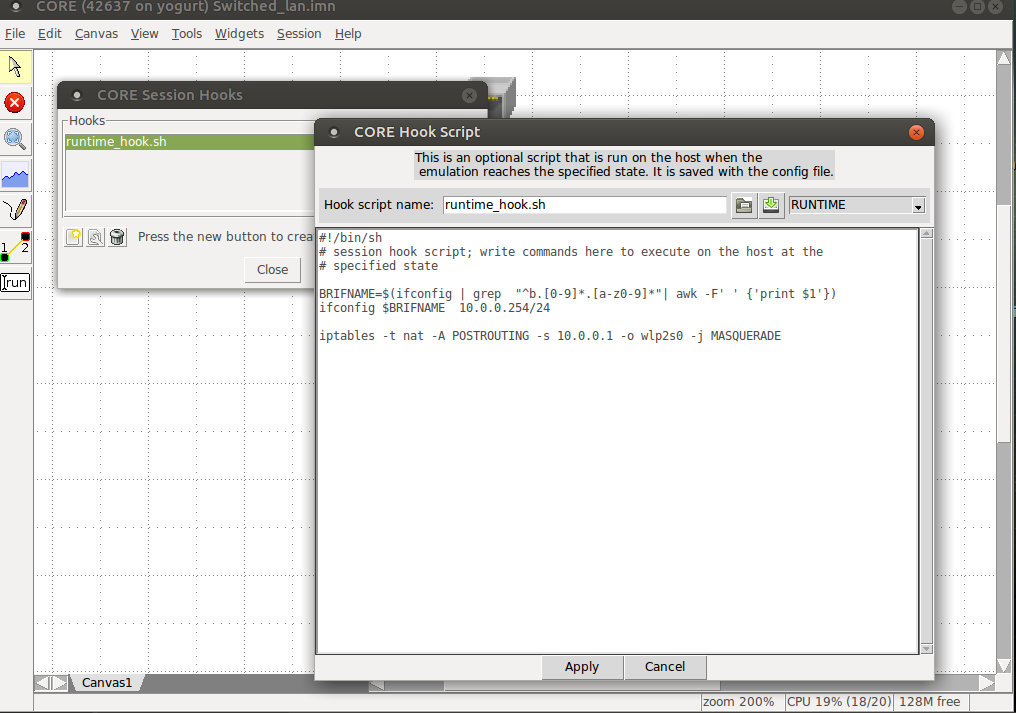
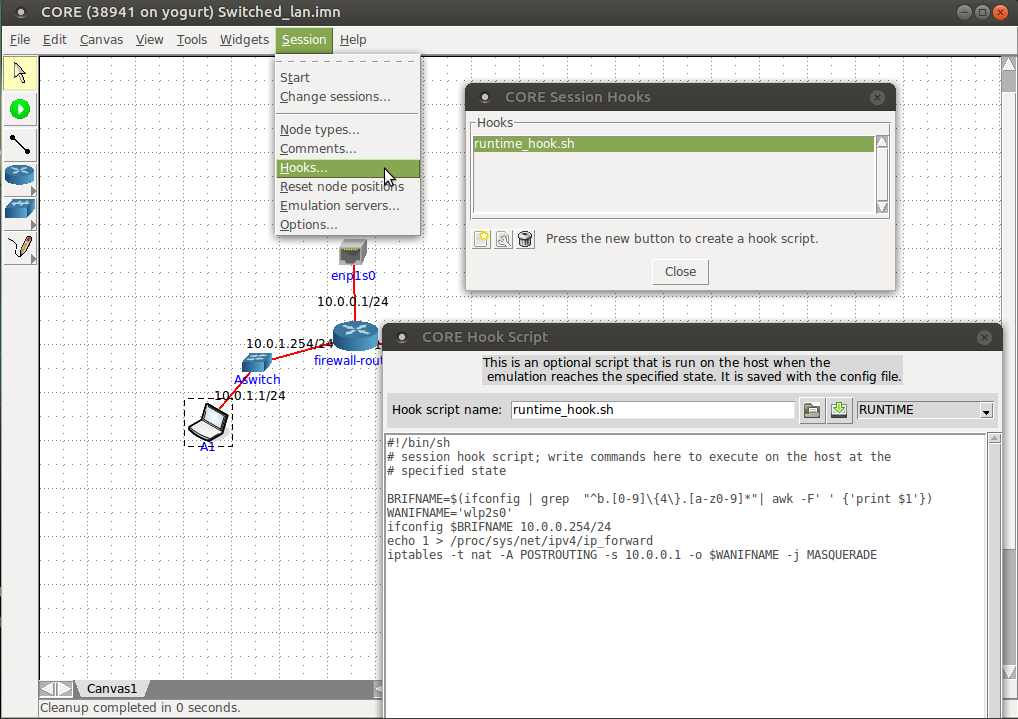
better runtime hook

diff --git a/README.md b/README.md
@@ -1,34 +1,39 @@
 CORE Network Tutorial
 ---------------------
 
-Follow these simple steps and get the base knowledge to use this wonderfull framework.
+This is a Tutorial to get the base knowledge of CORE framework.
+The configuration of this Tutorial is also available for download in [sources](sources/) folder.
 
 1. Install and Run CORE Network:
-    - 1.1 Please download packages or VMware image available from [CORE Network official download page](https://www.nrl.navy.mil/itd/ncs/products/core)
-    - 1.2 Install daemon and gui packages. _Hint: On ubuntu 16.04 and ubuntu 18.04 we got trusty packages to work._ 
-    
-2. add a Router and call it _firewall-router_, then add a physical interface to get a bridge on a real ifname on your workstation: 
-    - 2.1 Configure (double click) the physical interface to bridge with a local ethernet interface of your workstation;
-    - 2.2 remove ipv6 from _firewall_router_ if you don't need it;
+    - 1.1 Please download packages or VMware image available from [CORE Network official download page](https://www.nrl.navy.mil/itd/ncs/products/core).
+    - 1.2 Install daemon and gui packages. _Hint: On ubuntu 16.04 and ubuntu 18.04 we got trusty packages to work_. 
+    - 1.3 Run CORE daemon `/etc/init.d/core-daemon start`.
+
+2. Add a Router and rename it _firewall-router_, then add a physical interface to get a bridge on a real ifname on your workstation: 
+    - 2.1 Configure (double click) the physical interface and select an ethernet interface of your workstation;
+    - 2.2 Remove ipv6 from _firewall_router_ if you don't need it;
+    - 2.3 Using _link tool_ link _firewall-router_ to the physical interface;
     - _Hint: do not use wireless interface for bridging_
 
-    **Problem: Every time you stop and start your CORE session the Bridge ifname will change on your workstation. Use a command to keep it always in touch.
+    *Problem*: Every time you stop and start your CORE session the Bridge ifname will change on your workstation. Use a command to keep it handy.
     ````
     BRIFNAME=$(ifconfig | grep  "^b.[0-9]\{4\}.[a-z0-9]*"| awk -F' ' {'print $1'})
     ````    
-    To make this and other things persistent go to _Session -> Hooks_ and configure as follow in picture:
+    To make this persistent in a CORE session, as other preferencies, go to _Session -> Hooks_ and configure as follow in picture:
     ![Alt text](images/create_runtimehook.png)
 
 3. Run this first test.
-    - 3.1 open a terminal on your workstation, check available interfaces (`ifconfig` or `ip ad sh`). You will see at least two brand new interfaces, veth* and b.*. 
-    - 3.2 run `brctl show` to check what of the interfaces is a bridge (probably b.*). You will also see that veth* is a interfaces linked to this bridge.
+    - 3.1 On CORE Network window, run the emulation session clicking on the green arrow, in the left menu.
+    - 3.2 Open a terminal on your workstation, check available interfaces (`ifconfig` or `ip ad sh`). You will see at least two brand new interfaces, veth* and b.*. 
+    - 3.3 On your Workstation run `brctl show` to check what interfaces is a bridge (probably b.*). You will also see that veth* is the interfaces linked to this bridge.
     
     
     ![Alt text](images/3_testbridge_onlocalpc.png)
     
     
-    - 3.3 run `tcpdump -i $BRIFNAME` on your workstation, you will see traffic from the _firewall_router_.  Double click on _firewall_router_, it will open a terminal, see network the network interfaces and check its HWaddress, it's the same you get in the tcpdump stdout.
+    - 3.4 On your Workstation run `tcpdump -i $BRIFNAME`, you will see traffic from the _firewall_router_ like DHCP/BOOT and maybe some ARP request too.  Double click on _firewall_router_, it will open a terminal, see network the network interfaces and check its HWaddress, it's the same you get in the tcpdump stdout.
     ````
+    # on your workstation
     tcpdump -i $BRIFNAME
     tcpdump: verbose output suppressed, use -v or -vv for full protocol decode
     listening on b.42777.a7, link-type EN10MB (Ethernet), capture size 262144 bytes
@@ -36,58 +41,62 @@ Follow these simple steps and get the base knowledge to use this wonderfull fram
     16:53:44.446805 IP 0.0.0.0.bootpc > 255.255.255.255.bootps: BOOTP/DHCP, Request from 00:00:00:aa:00:00 (oui Ethernet), length 300
     ````
 
-4. configure lan from your workstation with _firewall_router_. Remember that $BRIFNAME it's only a variable name, this will have a different value on your setup!
-    - 4.1 `ifconfig $BRIFNAME 10.0.0.254/24` or `ip ad ch 10.0.0.254/24 dev $BRIFNAME`
-    - 4.2 ping _firewall_router_. Good news, a working layer2 was created from your workstation to your CORE Network project!
-    - 4.3 Disable unecessary routing services
-        ![Alt text](images/firewall-router_services.png)
+4. Configure the LAN 10.0.0.0/24 to link your workstation to _firewall_router_. Remember that $BRIFNAME is only a variable name, be sure that this will have a different value on your setup!
+    - 4.1 On your Workstation configure the ip with `ifconfig $BRIFNAME 10.0.0.254/24` or `ip ad ch 10.0.0.254/24 dev $BRIFNAME`
+    - 4.2 On your Workstation `ping 10.0.0.1` (_firewall_router_). Good news, a working layer2 was created from your workstation to your CORE Network session.
+    - 4.3 Disable unecessary routing services, all those that are not needed in this tutorial.
+    ![Alt text](images/firewall-router_services.png)
     
 5. Enable supernetting, _firewall_router_ must reach internet. All these task must be executed on your workstation.
-    - 5.1 Enable ip_forward `echo 1 >  /proc/sys/net/ipv4/ip_forward`
+    - 5.1 Enable ip_forward `echo 1 >  /proc/sys/net/ipv4/ip_forward`.
     - 5.2 NAT all the traffic from the bridge to internet using iptables. What's your ifname linked to internet? That is the output interface:
-        `iptables -t nat -A POSTROUTING -s 10.0.0.1 -o wlp2s0 -j MASQUERADE`
-        10.0.0.1 is the ip of _firewall_router_, wlp2s0 is the wireless interface that I'm using on my workstation to reach internet
-    - 5.3 Tell to _firewall_router_ its default gateway, add it:
-        `route add default gw 10.0.0.254`
-    - 5.4 from "firewall-route" test a foreign `ping to 8.8.8.8` for example, you must see it work! Made persistent this route.
-        ![Alt text](images/4_router_defgw_persistent.png)
+        - `iptables -t nat -A POSTROUTING -s 10.0.0.1 -o wlp2s0 -j MASQUERADE`;
+        - 10.0.0.1 is the ip of _firewall_router_;
+        - wlp2s0 is the wireless interface that I'm using on my workstation to reach internet;
+    - 5.3 Configure a default gateway to _firewall_router_ with command `route add default gw 10.0.0.254`.
+    - 5.4 In _firewall-router_ shell test a foreign `ping to 8.8.8.8` or `tracepath -n 8.8.8.8`, you must see it work. Make it persistent.
+    ![Alt text](images/4_router_defgw_persistent.png)
 
-6. Make persistent configuration in _firewall_router_ with CORE Network hook services:
-    - 6.1 Also update resolv.conf into _firewall_router_ if you need it
+6. Create a persistent configuration in _firewall_router_ with CORE Network hook services.
+    - 6.1 This is an example to make a good resolv.conf into the _firewall_router_.
         ![Alt text](images/4_router_resolvconf_persistent.png)
         ![Alt text](images/4_router_resolvconf_persistent_2.png)
     
-7. Create Collision Zones, switched LANs in Core Network
-    - 7.1 Add network switches
+7. Create Collision Zones, the switched LANs in your CORE Network project.
+    - 7.1 Add network switches to simulate the real world. Remember that every switch will create a bridge interface in your Workstation, including all the interfaces linked in. This means that we can always sniff the traffic directly in the emulated network switch. Rename the switch _Aswitch_ and _Bswitch_.
         ![Alt text](images/7_creates_switches_links.png)
-    - 7.2 Add Nodes in the A and in the B zone with compatible IPs.
-    - 7.3 in A1 and B1 change services.DefaultRoute with correct _firewall_router_ ip
-    - 7.4 do tracepatch from A1 to B1 and viceversa, please test if networks are now linked with _firewall_router_
+    - 7.2 Create two nodes, one in the A LAN and another in the B LAN.
+    - 7.3 In A1 and B1 configuration change _services.DefaultRoute_ configuring the correct _firewall_router_ ip.
+    - 7.4 Run a ]tracepath` from A1 to B1 and viceversa, this is a test to check if networks are now reachable each other through the _firewall_router_.
 
-8. Add some rule in _firewall_router_ configuration:
+8. Add some firewall rule in _firewall_router_ configuration:
     - 8.1 Network A must reach internet and not B.
-        - 8.1.1 Enable services.firewall in _firewall_router_
-        - 8.1.2 Reject traffic in FORWARD chain, from A to B
+        - 8.1.1 Enable _services.firewall_ in _firewall_router_.
+        - 8.1.2 Reject traffic in FORWARD chain, from A to B.
           ````
-          # accept returning packets from B to A, otherwise packets from B will not be forwarded
+          # IMPORTANT: accept returning packets from B to A, otherwise packets from B will not be forwarded
           # this means that if B reach A the forward will works because it was previously established 
           iptables -A FORWARD -m state --state RELATED,ESTABLISHED -j ACCEPT
           
           # REJECT traffic from A to B, ip_forward will works but this rule will reject the packets
           iptables -A FORWARD -s 10.0.1.0/24 -d 10.0.2.0/24 -j REJECT
           ````
-        - 8.1.2 Add masquerade rule to NAT all the traffic from A to Internet
+        - 8.1.3 Add a masquerade rule to NAT all the traffic from A to Internet.
           ````
           iptables -t nat -A POSTROUTING -s 10.0.1.0/24 -o eth0 -j MASQUERADE
           ````
-    - 8.2 Network B must reach Internet and A
-        - 8.1.2 Add masquerade rule to NAT all the traffic from B to Internet
+    - 8.2 Network B must reach Internet and also A.
+        - 8.2.1 Add masquerade rule to NAT all the traffic from B to Internet
           ````
           iptables -t nat -A POSTROUTING -s 10.0.2.0/24 -o eth0 -j MASQUERADE
           ````
 
+Result
+------
+Remember: in `~/.core/configs` you will also find more complex examples.
 ![Alt text](images/7_addnodes_removeips.png)
 
-# TODO
-- Make the tasks described in 8. without iptables. _Hint: Linux Advanced Routing and blackholes_.
-- Please suggest use case opening a git PR!
+TODO
+----
+- Make the tasks described in _8._ without iptables but using _Linux Advanced Routing and blackholes_.
+- Please contribute, suggest other basic use cases, opening an Issue or Pull Request.
